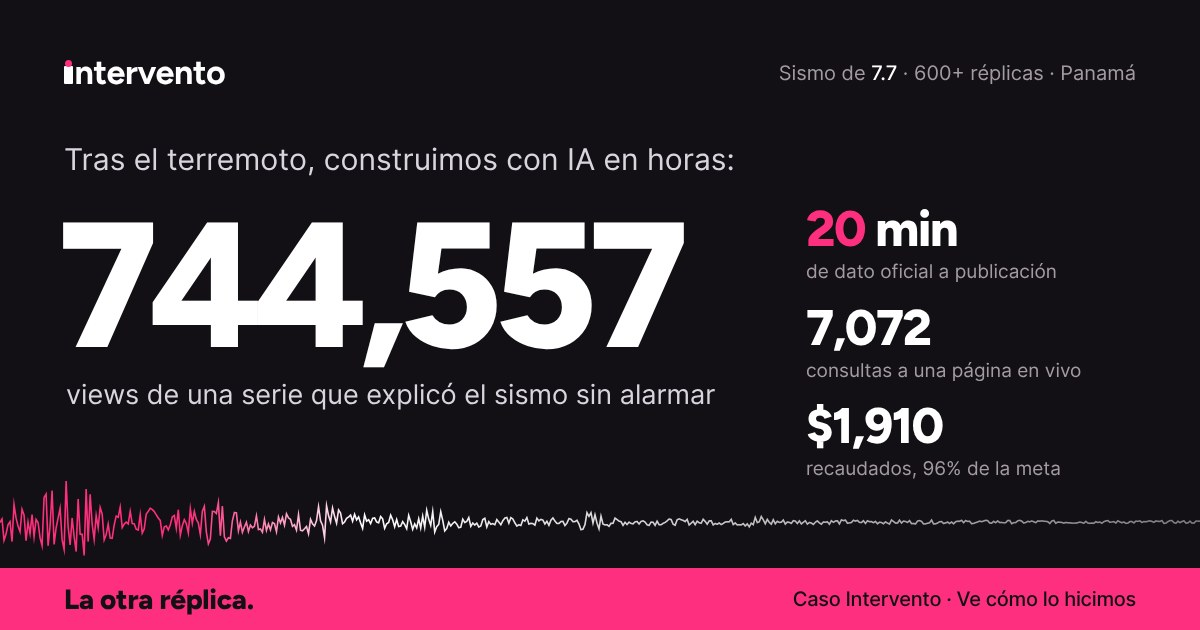
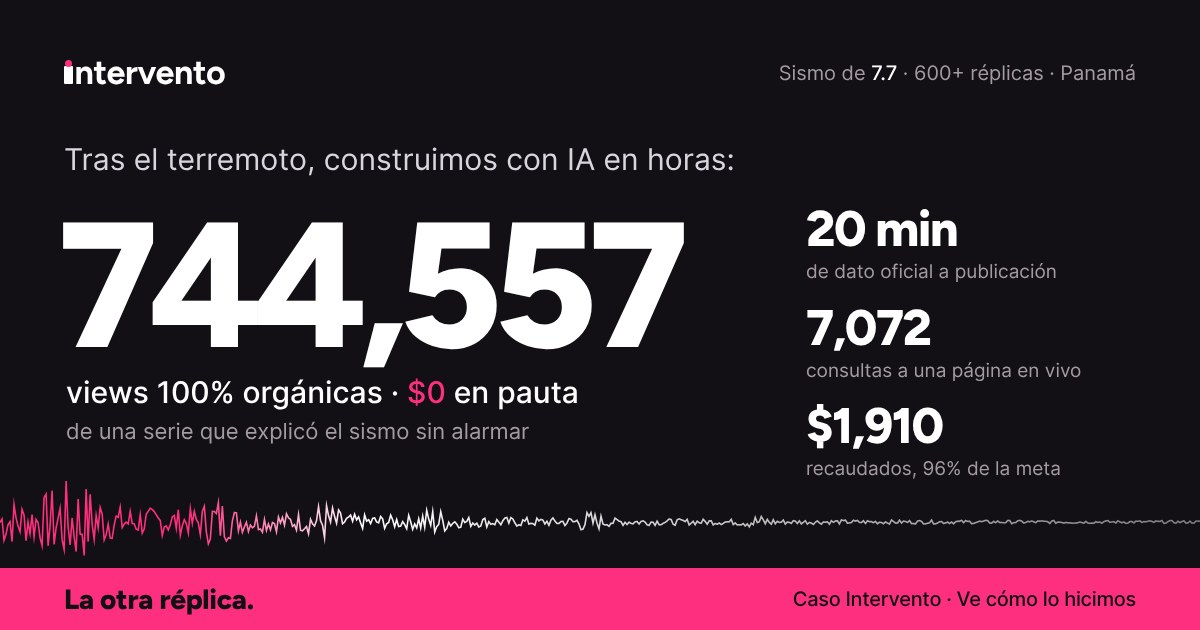
Caso La otra réplica: resaltar alcance 100% orgánico, $0 en pauta
Claude-Session: https://claude.ai/code/session_01KGaQtzsPmCZoAm9yN6pvD9

Changed region(s): [[0.0617, 0.6032, 0.5858, 0.6937], [0.6475, 0.3317, 0.74, 0.3921]]

diff --git a/casos/la-otra-replica/index.html b/casos/la-otra-replica/index.html
@@ -3,16 +3,16 @@
 <head>
 <meta charset="utf-8">
 <meta name="viewport" content="width=device-width, initial-scale=1, viewport-fit=cover">
-<meta name="description" content="Caso Intervento: cómo la IA conectó información, una herramienta en vivo y ayuda trazable tras el terremoto de octubre 2026 en Panamá.">
+<meta name="description" content="Caso Intervento: cómo la IA conectó información, una herramienta en vivo y ayuda trazable tras el terremoto de octubre 2026 en Panamá. 100% orgánico, $0 en pauta.">
 <title>La otra réplica · Intervento</title>
 <meta property="og:type" content="article">
 <meta property="og:url" content="https://getintervento.com/casos/la-otra-replica/">
-<meta property="og:title" content="La otra réplica: 744,557 views tras el terremoto, construido con IA en horas">
+<meta property="og:title" content="La otra réplica: 744,557 views orgánicas, $0 en pauta, construido con IA en horas">
 <meta property="og:description" content="Cómo la IA conectó información, una herramienta en vivo y ayuda trazable tras el terremoto de octubre 2026 en Panamá.">
 <meta property="og:image" content="https://getintervento.com/casos/la-otra-replica/og.jpg">
 <meta property="og:image:width" content="1200">
 <meta property="og:image:height" content="630">
-<meta property="og:image:alt" content="La otra réplica: 744,557 views, 20 min de dato a publicación, 7,072 consultas y $1,910 recaudados tras el terremoto en Panamá">
+<meta property="og:image:alt" content="La otra réplica: 744,557 views orgánicas sin pauta, 20 min de dato a publicación, 7,072 consultas y $1,910 recaudados tras el terremoto en Panamá">
 <meta property="og:locale" content="es_PA">
 <meta name="twitter:card" content="summary_large_image">
 <link rel="canonical" href="https://getintervento.com/casos/la-otra-replica/">
@@ -226,19 +226,20 @@ footer .wrap{display:flex;justify-content:space-between;gap:16px;flex-wrap:wrap}
   <div class="wrap hero-grid">
     <p class="eyebrow">Caso Intervento · IA en respuesta a crisis · Panamá</p>
     <h1>La otra<br>réplica<span class="dot">.</span></h1>
-    <p class="lede">Después del terremoto, la tierra siguió moviéndose más de 600 veces. Nosotros respondimos con otra clase de réplica: información clara, herramientas en vivo y ayuda trazable, construidas con IA en horas y no en semanas.</p>
+    <p class="lede">Después del terremoto, la tierra siguió moviéndose más de 600 veces. Nosotros respondimos con otra clase de réplica: información clara, herramientas en vivo y ayuda trazable, construidas con IA en horas y no en semanas. Sin pagar un dólar en pauta: todo el alcance fue orgánico.</p>
     <div class="stamp num">
       <span>Fecha <b>09.10.2026</b></span>
       <span>Hora <b>12:56</b></span>
       <span>Magnitud <b>7.7 Mw</b></span>
       <span>Epicentro <b>cerca de Tonosí, Azuero</b></span>
+      <span>Pauta <b>$0 · 100% orgánico</b></span>
     </div>
   </div>
   <div class="wrap">
     <canvas class="seismo" id="seismo" aria-label="Trazo de sismógrafo que empieza con una sacudida fuerte y se calma con el paso de los días"></canvas>
     <div class="seismo-legend"><span>9 oct · sacudida</span><span>600+ réplicas en 6 días</span><span>21 oct · calma</span></div>
     <div class="kpis">
-      <div class="kpi"><div class="v">744,557</div><div class="l">views de la serie educativa y el Reel en Instagram y Facebook</div></div>
+      <div class="kpi"><div class="v">744,557</div><div class="l">views 100% orgánicas de la serie educativa y el Reel, con $0 en pauta</div></div>
       <div class="kpi"><div class="v">20 min</div><div class="l">como máximo, de dato oficial a pieza publicada</div></div>
       <div class="kpi"><div class="v">7,072</div><div class="l">consultas a Sismos Panamá en vivo en 12 días</div></div>
       <div class="kpi"><div class="v">$1,910</div><div class="l">recaudados para Coclé en 46 aportes, 96% de la meta</div></div>
@@ -346,6 +347,7 @@ footer .wrap{display:flex;justify-content:space-between;gap:16px;flex-wrap:wrap}
   <div class="wrap">
     <p class="eyebrow">05 · Resultados</p>
     <h2 style="margin-top:16px;max-width:20ch">El dato viajó porque servía.</h2>
+    <p class="lede muted" style="margin-top:20px">Ni un dólar en pauta. Cada view, cada consulta y cada aporte llegó de forma orgánica: la gente lo compartió porque le resolvía algo.</p>
 
     <div class="results">
       <!-- Entender -->
@@ -353,7 +355,7 @@ footer .wrap{display:flex;justify-content:space-between;gap:16px;flex-wrap:wrap}
         <div class="res-copy">
           <span class="verb">Entender</span>
           <h3>La gente lo compartió como herramienta.</h3>
-          <p class="muted">La primera pieza tuvo 521 shares: 1 por cada 78 views. La gente se la mandó a su familia. El alcance de la serie bajó al mismo ritmo que el miedo, y por eso la velocidad fue clave.</p>
+          <p class="muted">Todo el alcance fue orgánico: no se pagó pauta. La primera pieza tuvo 521 shares: 1 por cada 78 views. La gente se la mandó a su familia. El alcance de la serie bajó al mismo ritmo que el miedo, y por eso la velocidad fue clave.</p>
           <div class="minis">
             <div class="mini"><div class="v">92%</div><div class="l">de las views de la primera pieza vino de personas que no seguían la cuenta</div></div>
             <div class="mini"><div class="v">43,044</div><div class="l">cuentas alcanzadas por la serie educativa</div></div>
@@ -417,7 +419,7 @@ footer .wrap{display:flex;justify-content:space-between;gap:16px;flex-wrap:wrap}
   <div class="wrap">
     <p class="eyebrow">06 · Lo que esto demuestra</p>
     <h2 style="margin-top:16px;max-width:22ch">Una emergencia es la prueba más dura de eficiencia.</h2>
-    <p class="lede muted" style="margin-top:20px">Sin un equipo de desarrollo ni semanas de trabajo. Con IA bien dirigida. Lo mismo aplica a cualquier negocio que necesita moverse rápido sin sumar costos.</p>
+    <p class="lede muted" style="margin-top:20px">Sin un equipo de desarrollo, sin semanas de trabajo y sin presupuesto de pauta. Con IA bien dirigida. Lo mismo aplica a cualquier negocio que necesita moverse rápido sin sumar costos.</p>
     <div class="biz">
       <div class="biz-item"><span class="from">De Sismos Panamá</span><h3>De idea a producto en minutos.</h3><p class="muted">Validar una idea ya no exige meses ni un equipo de desarrollo. Se lanza, se mide con gente real y se ajusta.</p></div>
       <div class="biz-item"><span class="from">De Team SOS 7.7</span><h3>Tareas manuales que se hacen solas.</h3><p class="muted">Leer comprobantes y actualizar totales era trabajo de horas. Hoy pasa sin que nadie lo toque, y sin errores de transcripción.</p></div>
@@ -446,6 +448,7 @@ footer .wrap{display:flex;justify-content:space-between;gap:16px;flex-wrap:wrap}
         <li>Sismos Panamá en vivo: registros del servidor del 10 al 21 de octubre, sin bots, previsualizaciones ni visitas de prueba. "Persona" equivale a una conexión única.</li>
         <li>Team SOS 7.7: Google Analytics 4 del 13 al 28 de octubre. Los aportes empezaron el 12 de octubre, antes de publicar la página, así que la recaudación no se atribuye solo al sitio.</li>
         <li>Magnitud: 7.7 Mw según el USGS y el IGC-UP. La estimación inicial fue de 7.6.</li>
+        <li>Alcance 100% orgánico: no se invirtió en pauta pagada en ninguna de las 3 salidas.</li>
         <li>Porcentajes redondeados hacia arriba.</li>
       </ul>
     </details>

diff --git a/index.html b/index.html
@@ -529,14 +529,14 @@ gtag('config', 'G-1RHJ39L3EB');
   <div class="wrap">
     <span class="chip">Caso de éxito</span>
     <h2 style="margin-top:22px;">Lo construimos en la semana más difícil del año.</h2>
-    <p class="sub">Tras el terremoto del 9 de octubre, conectamos información confiable, una herramienta en vivo y ayuda trazable. Todo con IA, en horas y no en semanas.</p>
+    <p class="sub">Tras el terremoto del 9 de octubre, conectamos información confiable, una herramienta en vivo y ayuda trazable. Todo con IA, en horas y no en semanas, y sin pagar un dólar en pauta.</p>
     <a class="caso-card" href="casos/la-otra-replica/" style="margin-top:36px;">
-      <div class="caso-top"><span>Panamá · <b>9 al 21 de octubre de 2026</b></span><span>Sismo de <b>7.7 Mw</b> · 600+ réplicas</span></div>
+      <div class="caso-top"><span>Panamá · <b>9 al 21 de octubre de 2026</b></span><span>Sismo de <b>7.7 Mw</b> · <b>100% orgánico</b>, $0 en pauta</span></div>
       <h3>La otra<br>réplica<span class="dot">.</span></h3>
       <p class="caso-hook">Una sola fuente de datos y 3 productos: una serie que explicó el sismo sin alarmar, una página en vivo con cada réplica y una plataforma de donaciones que se actualizaba sola.</p>
       <canvas class="caso-seismo" id="casoSeismo" aria-hidden="true"></canvas>
       <div class="caso-kpis">
-        <div class="caso-kpi"><div class="v">744,557</div><div class="l">views de la serie educativa</div></div>
+        <div class="caso-kpi"><div class="v">744,557</div><div class="l">views orgánicas, sin pagar pauta</div></div>
         <div class="caso-kpi"><div class="v">20 min</div><div class="l">como máximo, de dato oficial a publicación</div></div>
         <div class="caso-kpi"><div class="v">7,072</div><div class="l">consultas a la página en vivo en 12 días</div></div>
         <div class="caso-kpi"><div class="v">$1,910</div><div class="l">recaudados en 46 aportes, 96% de la meta</div></div>
